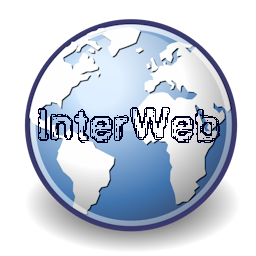
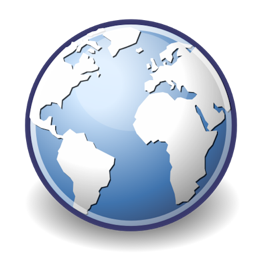
Change about dialog

diff --git a/browser/branding/unofficial/content/aboutDialog.css b/browser/branding/unofficial/content/aboutDialog.css
@@ -3,7 +3,7 @@
  * file, You can obtain one at http://mozilla.org/MPL/2.0/. */
 
 #aboutDialogContainer {
-  background-image: url("chrome://branding/content/about.png");
+  background-image: url("chrome://branding/content/about-background.png");
   background-repeat: no-repeat;
   background-color: rgb(10,17,37);
   color: #fff;
@@ -16,7 +16,7 @@
 
 #rightBox {
   /* this margin prevents text from overlapping the planet image */
-  margin-left: 280px;
+  margin-left: 185px;
   margin-right: 20px;
 }
 
